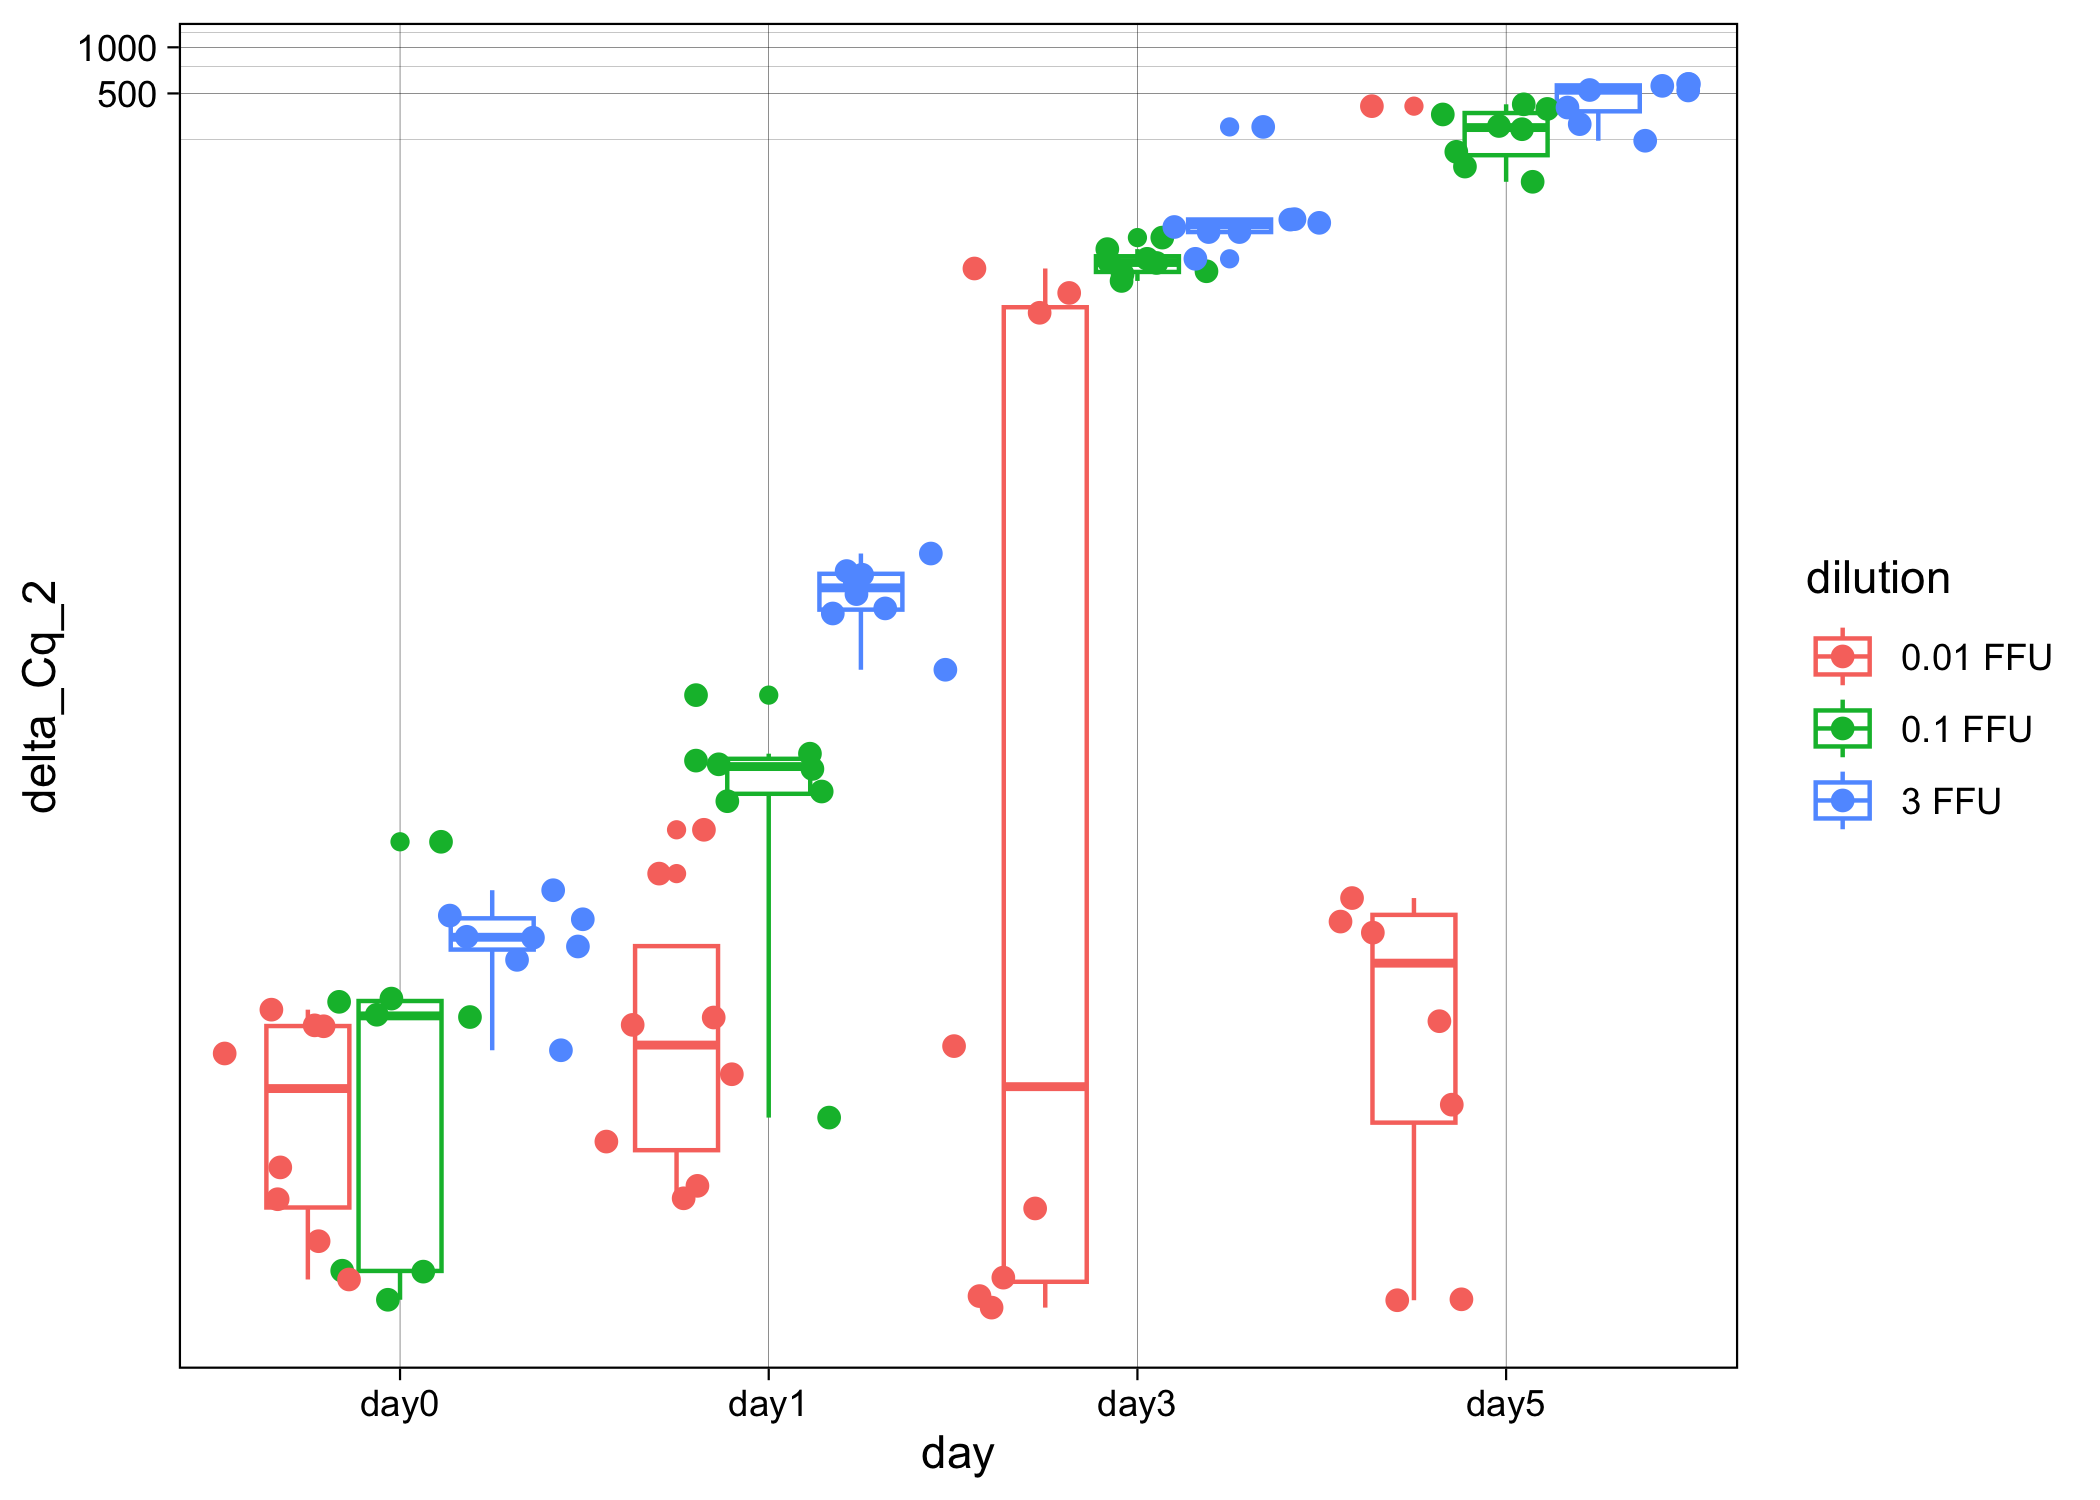
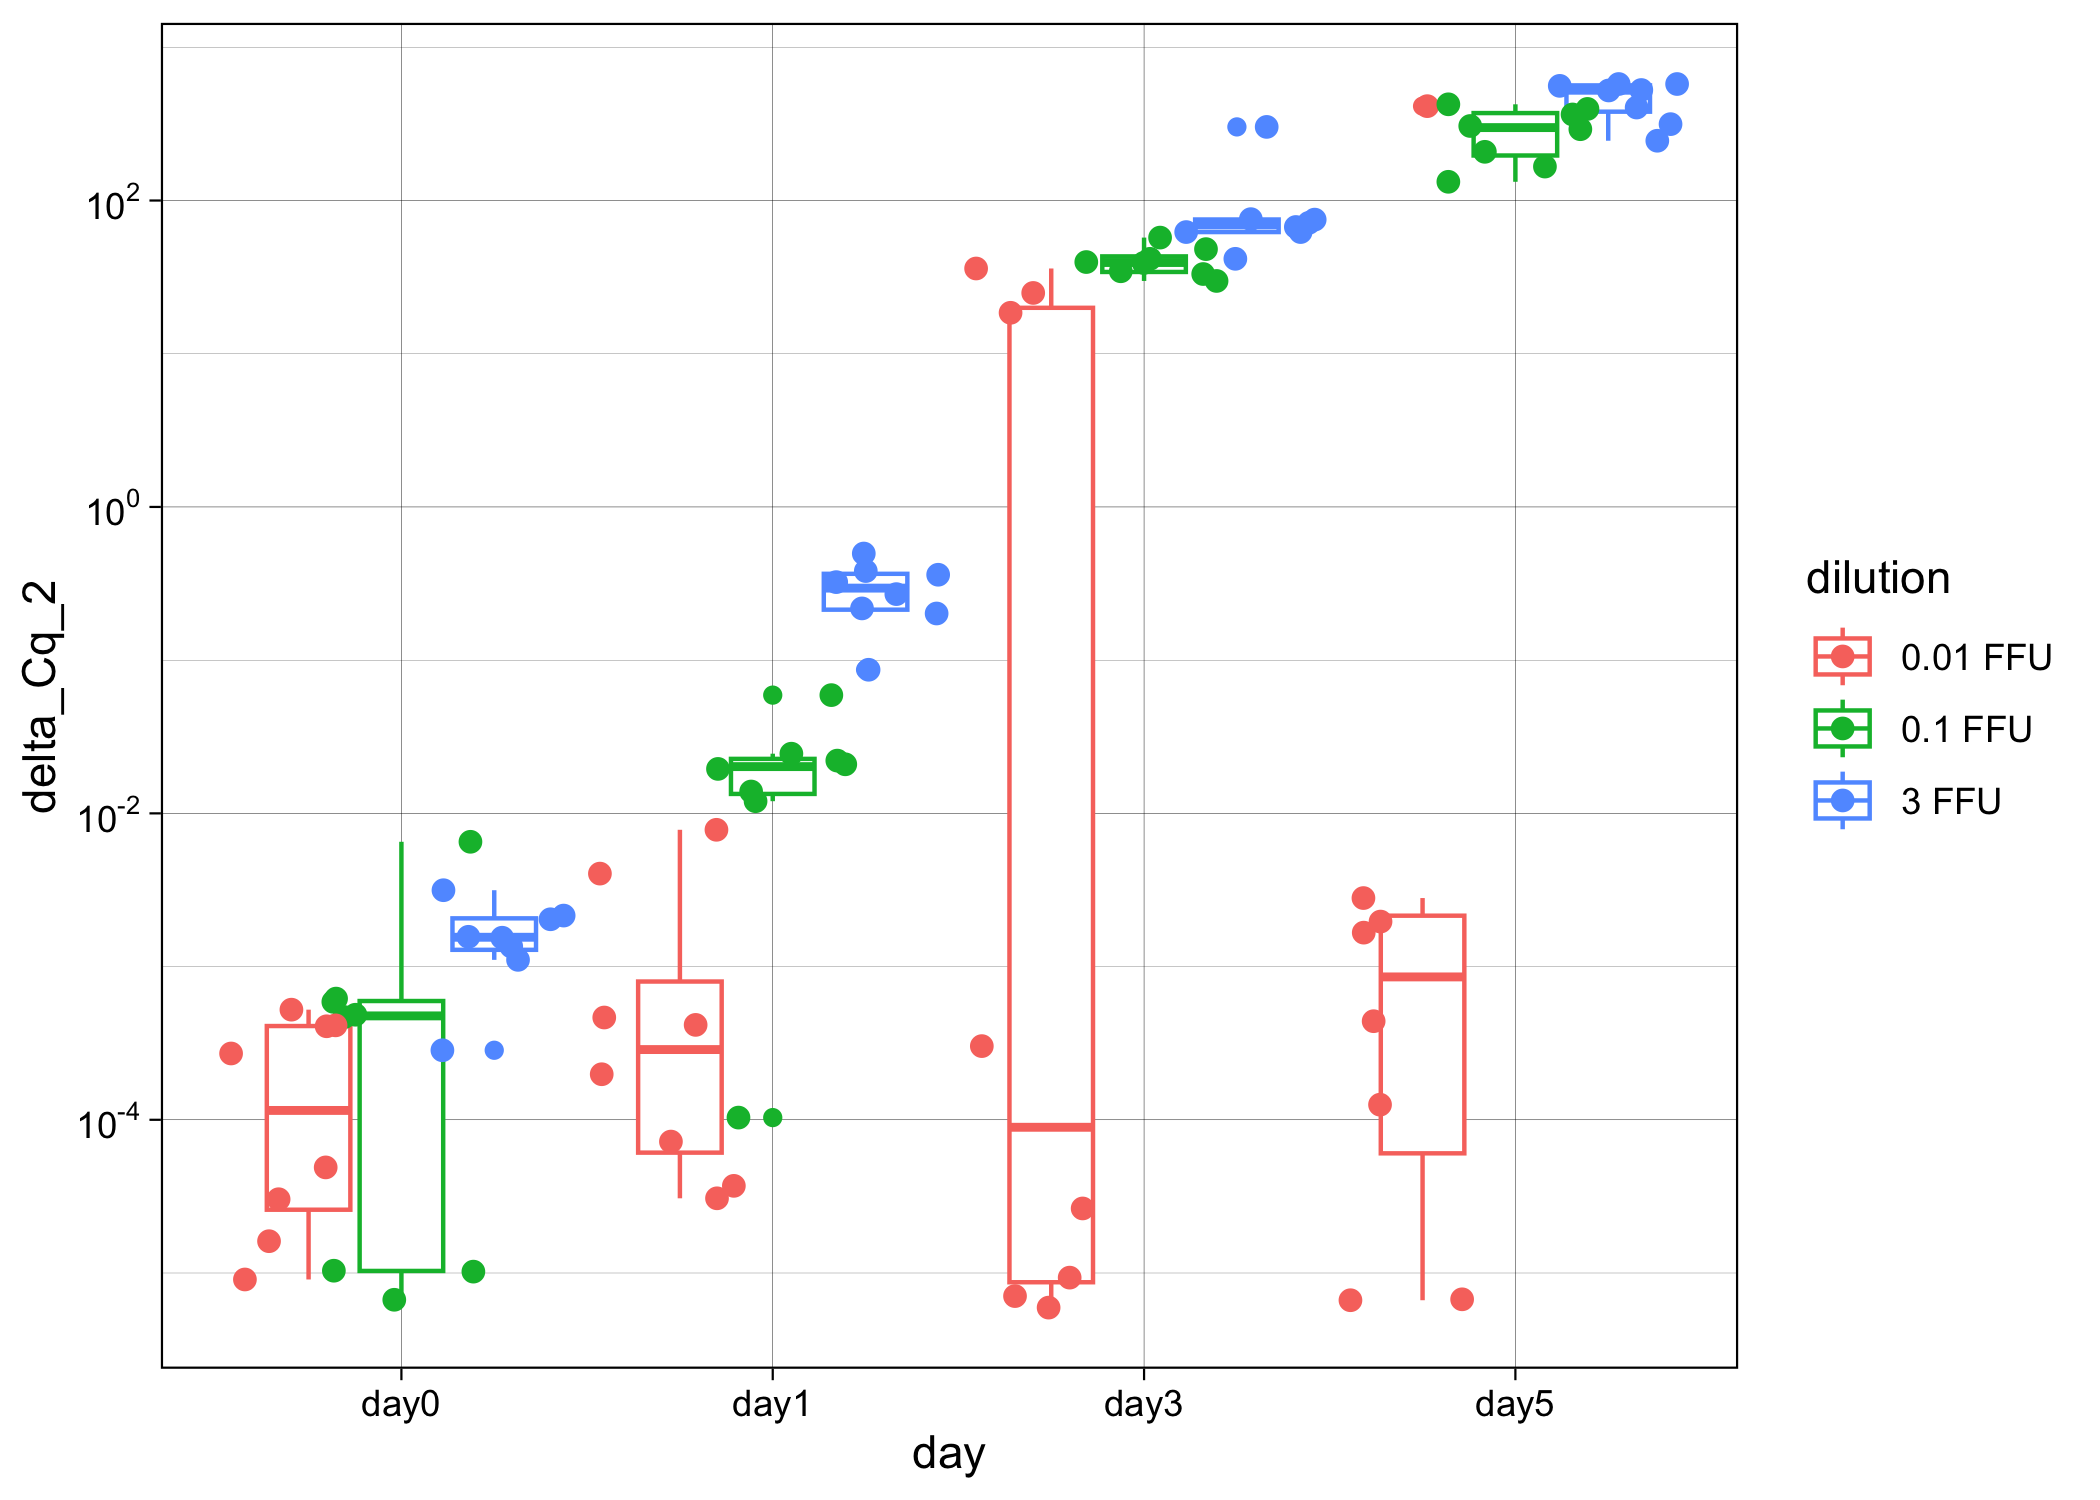
adding more analysis

diff --git a/qPCR_analysis/20240228-viral-load-dilutions/p4-DiNV-viral-dilutions-over-time.md b/qPCR_analysis/20240228-viral-load-dilutions/p4-DiNV-viral-dilutions-over-time.md
@@ -150,7 +150,7 @@ Cq_values_F_Delta$delta_Cq_2 <- 2^(delta_Cqs_F)
 
 
 # plot and use a log 10 scale for the y axis 
-ggplot(Cq_values_F_Delta, aes(y= delta_Cq_2, x=day, color=dilution)) + geom_boxplot()  + theme_linedraw() + geom_point(position=position_jitterdodge(dodge.width=0.9), size=2) + coord_trans(y = "log10")
+ggplot(Cq_values_F_Delta, aes(y= delta_Cq_2, x=day, color=dilution)) + geom_boxplot()  + theme_linedraw() + geom_point(position=position_jitterdodge(dodge.width=0.9), size=2) + scale_y_continuous(trans='log10', breaks=trans_breaks('log10', function(x) 10^x), labels=trans_format('log10', math_format(10^.x)))
 ```
 
 ![](p4-DiNV-viral-dilutions-over-time_files/figure-commonmark/unnamed-chunk-6-1.png)
@@ -230,7 +230,7 @@ delta_Cqs_M
 
 ``` r
 # Make a new dataframe that only has one row per sample by getting rid of the rows with the TPI primer
-Cq_values_M_Delta <- Cq_values_M[which(Cq_values_F$primer == "PIF3"),]
+Cq_values_M_Delta <- Cq_values_M[which(Cq_values_M$primer == "PIF3"),]
 
 # And then add in the delta Cqs as a new column
 Cq_values_M_Delta$delta_Cq <- delta_Cqs_M
@@ -240,7 +240,7 @@ Cq_values_M_Delta$delta_Cq_2 <- 2^(delta_Cqs_M)
 
 
 # plot and use a log 10 scale for the y axis 
-ggplot(Cq_values_M_Delta, aes(y= delta_Cq_2, x=day, color=dilution)) + geom_boxplot()  + theme_linedraw() + geom_point(position=position_jitterdodge(dodge.width=0.9), size=2) + coord_trans(y = "log10")
+ggplot(Cq_values_M_Delta, aes(y= delta_Cq_2, x=day, color=dilution)) + geom_boxplot()  + theme_linedraw() + geom_point(position=position_jitterdodge(dodge.width=0.9), size=2) + scale_y_continuous(trans='log10', breaks=trans_breaks('log10', function(x) 10^x), labels=trans_format('log10', math_format(10^.x)))
 ```
 
 ![](p4-DiNV-viral-dilutions-over-time_files/figure-commonmark/unnamed-chunk-8-1.png)
@@ -568,3 +568,172 @@ ggplot(FFU_001_dil, aes(y= delta_delta_Cq_2, x=day, fill=sex)) +
     `binwidth`.
 
 ![](p4-DiNV-viral-dilutions-over-time_files/figure-commonmark/unnamed-chunk-13-1.png)
+
+**Adding in days 6, 7, and 9 for males**
+
+Load in dataset
+
+``` r
+Cq_values_extra <- read.csv("/Users/maggieschedl/Desktop/Github/Unckless_Lab_Resources/qPCR_analysis/20240228-viral-load-dilutions/20240313-extra-0.01.csv")
+```
+
+Look at raw Cq values
+
+``` r
+ggplot(Cq_values_extra, aes(x= Cq, fill = primer)) + geom_histogram(position = "dodge") + facet_grid(~day) 
+```
+
+    `stat_bin()` using `bins = 30`. Pick better value with `binwidth`.
+
+![](p4-DiNV-viral-dilutions-over-time_files/figure-commonmark/unnamed-chunk-15-1.png)
+
+These look pretty similar to above, I wonder if all the flies aren’t
+getting infected…
+
+Calculating extra delta Cq and Plotting
+
+``` r
+# need to organize by name of the sample I think
+Cq_values_extra <- Cq_values_extra[order(Cq_values_extra$sample_ID),]
+# this worked to order by the sample number 
+# and the TPI value is first in the order and PIF 3 second
+
+# Separate that dataframe, incriminating by 2, every number between 1-48 (number of rows in dataframe)
+Cq_values_extra$Cq[seq(1,48,2)] # these are the TPI Cq #s
+```
+
+     [1] 22.10 22.02 23.62 22.13 22.04 24.20 22.07 24.21 22.14 22.21 22.47 23.17
+    [13] 21.71 22.29 22.22 22.23 22.58 22.03 22.18 22.27 23.79 22.15 22.10 23.50
+
+``` r
+Cq_values_extra$Cq[seq(2,48,2)] # these are the PIF 3 primer Cq #s 
+```
+
+     [1] 32.69 31.79 33.40 32.07 33.33 15.48 26.23 14.82 24.12 12.44 21.48 26.14
+    [13] 27.00 29.15 23.20 22.89 12.24 25.87 25.61 25.62 25.44 28.13 24.47 14.96
+
+``` r
+# make the delta Cq by subtracting the PIF 3 values from the TPI primer values
+# and this is saved as a vector in R 
+delta_Cqs_extra <- Cq_values_extra$Cq[seq(1,48,2)] - Cq_values_extra$Cq[seq(2,48,2)]
+#vector
+delta_Cqs_extra
+```
+
+     [1] -10.59  -9.77  -9.78  -9.94 -11.29   8.72  -4.16   9.39  -1.98   9.77
+    [11]   0.99  -2.97  -5.29  -6.86  -0.98  -0.66  10.34  -3.84  -3.43  -3.35
+    [21]  -1.65  -5.98  -2.37   8.54
+
+``` r
+# Make a new dataframe that only has one row per sample by getting rid of the rows with the TPI primer
+Cq_values_extra_Delta <- Cq_values_extra[which(Cq_values_extra$primer == "PIF 3"),]
+
+# And then add in the delta Cqs as a new column
+Cq_values_extra_Delta$delta_Cq <- delta_Cqs_extra
+
+# add a column with 2^ delta Cq
+Cq_values_extra_Delta$delta_Cq_2 <- 2^(delta_Cqs_extra)
+
+
+# plot and use a log 10 scale for the y axis 
+ggplot(Cq_values_extra_Delta, aes(y= delta_Cq_2, x=day)) + geom_boxplot()  + theme_linedraw() + geom_point() + scale_y_continuous(trans='log10', breaks=trans_breaks('log10', function(x) 10^x), labels=trans_format('log10', math_format(10^.x)))
+```
+
+![](p4-DiNV-viral-dilutions-over-time_files/figure-commonmark/unnamed-chunk-16-1.png)
+
+Delta delta analysis
+
+``` r
+# this might be a little mess to do 
+# separate out the day 0 samples to start with 
+E_0 <- Cq_values_extra_Delta[which(Cq_values_extra_Delta$day == "day0"),]
+
+# mean of day 0 delta Cq
+mean(E_0$delta_Cq)
+```
+
+    [1] -10.274
+
+``` r
+# -10.274
+
+# main data sheet without day 0 
+E <- Cq_values_extra_Delta[which(Cq_values_extra_Delta$day != "day0"),]
+
+# subtract average day 0 delta Cq from the delta Cq of all others 
+delta_delta_extra <- E$delta_Cq - -10.274
+delta_delta_extra
+```
+
+     [1] 18.994  6.114 19.664  8.294 20.044 11.264  7.304  4.984  3.414  9.294
+    [11]  9.614 20.614  6.434  6.844  6.924  8.624  4.294  7.904 18.814
+
+``` r
+# add as column 
+E$delta_delta_Cq <- delta_delta_extra
+
+# do 2^ delta delta 
+E$delta_delta_Cq_2 <- 2^(delta_delta_extra)
+
+
+# plot
+legend_title <- "Virus Delivery"
+
+ggplot(E, aes(y= delta_delta_Cq_2, x=day)) + geom_boxplot() +  
+  theme_light() + geom_point() +
+  scale_y_continuous(trans='log10', breaks=trans_breaks('log10', function(x) 10^x), labels=trans_format('log10', math_format(10^.x))) + 
+  theme(axis.text=element_text(size=12),axis.title=element_text(size=14), legend.text=element_text(size=12), legend.title=element_text(size=14)) +
+  scale_x_discrete(labels=c("day6" = "6 days", "day7" = "7 days", "day9" = "9 days")) +
+  labs(title = "Comparing Viral Titer in Male Flies \nInjected with Various Titers Over Early Infection",y = "2^delta delta Cq", x = "Days Since Injection")
+```
+
+![](p4-DiNV-viral-dilutions-over-time_files/figure-commonmark/unnamed-chunk-17-1.png)
+
+Combine this data with the male data from the other experiment
+
+``` r
+# male data
+head(M_001_dil)
+```
+
+        Well         Plate sample_ID primer  sex dilution  day unique_name    Cq
+    8    A08  plate 1 PIF3        53   PIF3 male 0.01 FFU day1     53_PIF3 31.76
+    200  A08 plate 2 PIF 3        54   PIF3 male 0.01 FFU day1     54_PIF3 35.16
+    32   C08  plate 1 PIF3        55   PIF3 male 0.01 FFU day1     55_PIF3 34.20
+    224  C08 plate 2 PIF 3        56   PIF3 male 0.01 FFU day1     56_PIF3 38.38
+    56   E08  plate 1 PIF3        57   PIF3 male 0.01 FFU day1     57_PIF3 29.97
+    248  E08 plate 2 PIF 3        58   PIF3 male 0.01 FFU day1     58_PIF3 37.50
+        delta_Cq   delta_Cq_2 delta_delta_Cq delta_delta_Cq_2
+    8      -7.95 4.044004e-03        5.45625       43.9030724
+    200   -11.23 4.163256e-04        2.17625        4.5197720
+    32    -11.07 4.651553e-04        2.33625        5.0498831
+    224   -14.99 3.072984e-05       -1.58375        0.3336136
+    56     -7.00 7.812500e-03        6.40625       84.8151452
+    248   -14.72 3.705429e-05       -1.31375        0.4022739
+
+``` r
+# to combine datasets I'll need all the same columns 
+# don't need plate column, sex column 
+M_001_dil_s <- M_001_dil[,c(1,3:4,6:13)]
+
+# combine extra and original data 
+# add all of the days back together 
+All_Male_delta_delta <- rbind(M_001_dil_s, E)
+
+# plot
+legend_title <- "Virus Delivery"
+
+ggplot(All_Male_delta_delta, aes(y= delta_delta_Cq_2, x=day, fill=dilution)) + geom_boxplot() +  
+  scale_fill_manual(legend_title, values=c( "#67001F")) + 
+  theme_light() + 
+  geom_dotplot(binaxis='y', stackdir='center', dotsize=0.75, position=position_dodge(0.8)) + 
+  scale_y_continuous(trans='log10', breaks=trans_breaks('log10', function(x) 10^x), labels=trans_format('log10', math_format(10^.x))) + 
+  theme(axis.text=element_text(size=12),axis.title=element_text(size=14), legend.text=element_text(size=12), legend.title=element_text(size=14)) +
+  scale_x_discrete(labels=c("day1" = "1 day", "day3" = "3 days", "day5" = "5 days", "day6" = "6 days", "day7" = "7 days", "day9" = "9 days")) +
+  labs(title = "Comparing Viral Titer in Male Flies \nInjected with Various Titers Over Infection",y = "2^delta delta Cq", x = "Days Since Injection")
+```
+
+    Bin width defaults to 1/30 of the range of the data. Pick better value with
+    `binwidth`.
+
+![](p4-DiNV-viral-dilutions-over-time_files/figure-commonmark/unnamed-chunk-18-1.png)
